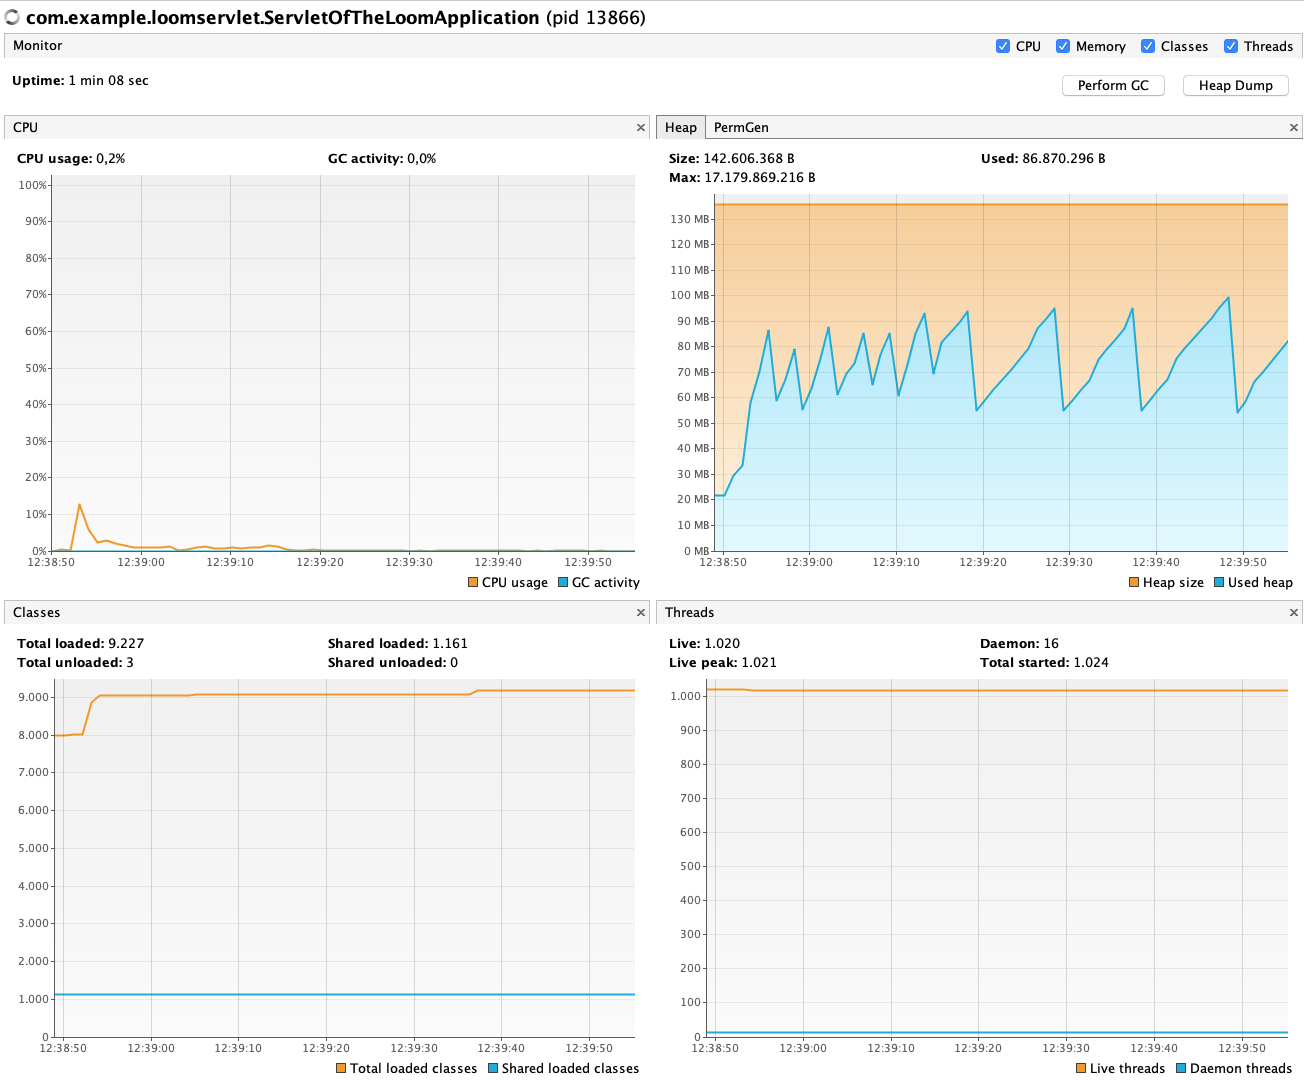
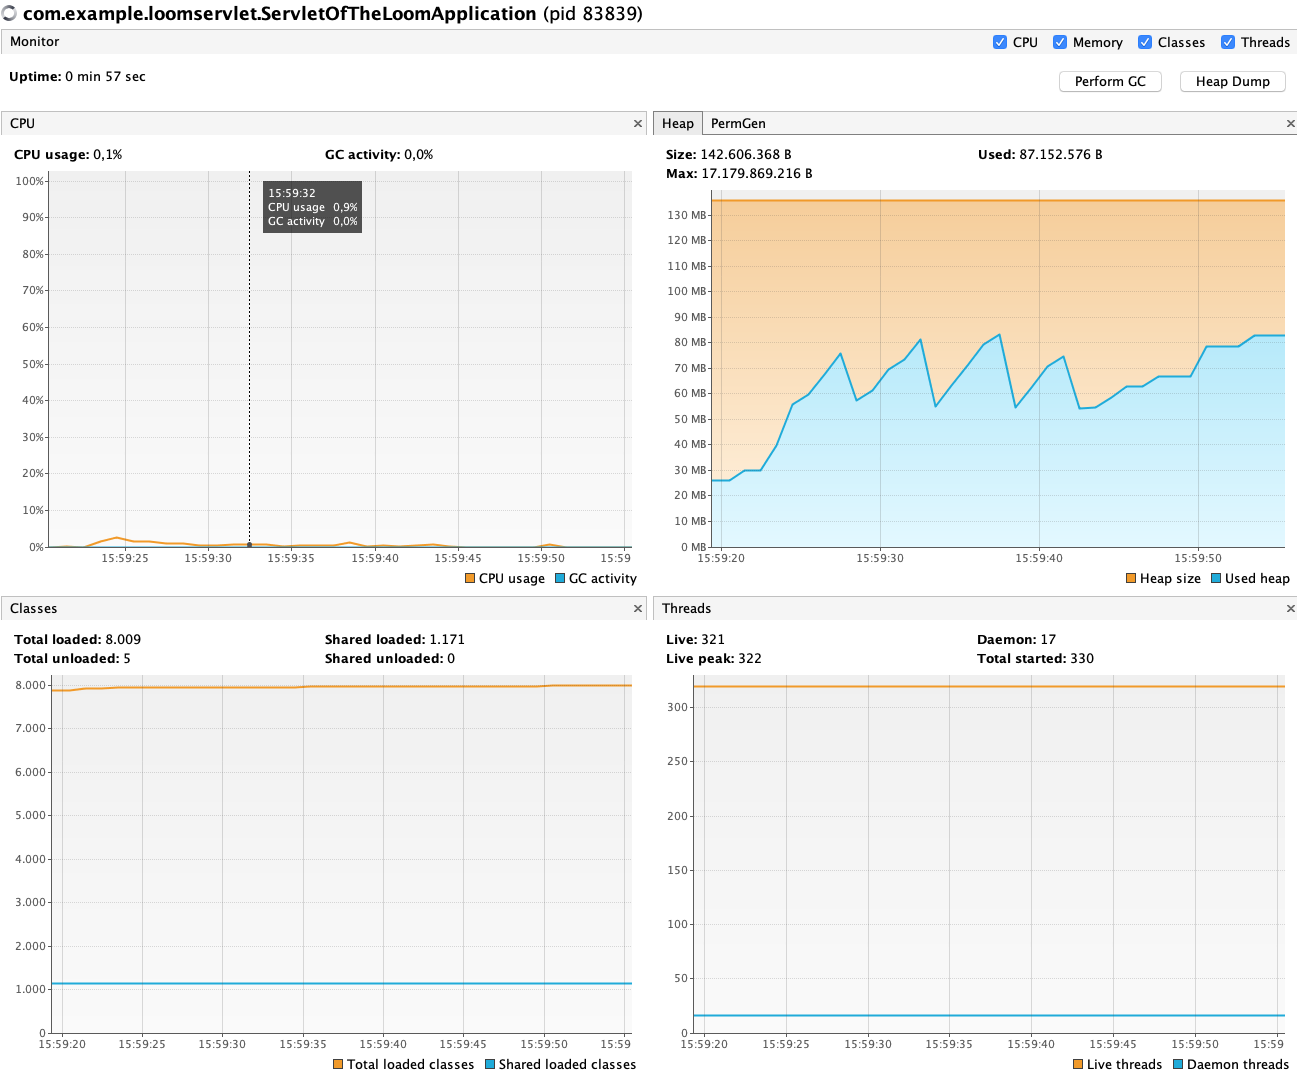
Reduce Kernel Thread scenario to achieve similar throughput as Virtual Threads using the least possible amount of threads.

diff --git a/README.md b/README.md
@@ -235,43 +235,43 @@ Transfer/sec:     24.59KB
 RSS: 234 MB
 
 
-**1000 Kernel Threads**
+**300 Kernel Threads**
 
 ```
-wrk -c 1000 -t 5 -d 10s --latency http://localhost:8080/
-Running 10s test @ http://localhost:8080/
+wrk -c 1000 -t 5 -d 10s --latency http://localhost:8080
+Running 10s test @ http://localhost:8080
   5 threads and 1000 connections
   Thread Stats   Avg      Stdev     Max   +/- Stdev
-    Latency     1.03s    65.68ms   1.25s    90.76%
-    Req/Sec    45.04     12.29    68.00     68.75%
+    Latency     1.01s     3.86ms   1.02s    72.97%
+    Req/Sec    45.10     27.70   135.00     76.42%
   Latency Distribution
-     50%    1.01s 
+     50%    1.00s 
      75%    1.01s 
-     90%    1.02s 
-     99%    1.24s 
-  2121 requests in 10.06s, 238.20KB read
-  Socket errors: connect 753, read 176, write 0, timeout 0
-Requests/sec:    210.76
-Transfer/sec:     23.67KB
+     90%    1.01s 
+     99%    1.02s 
+  2157 requests in 10.06s, 242.24KB read
+  Socket errors: connect 753, read 196, write 0, timeout 0
+Requests/sec:    214.51
+Transfer/sec:     24.09KB
 
-wrk -c 1000 -t 5 -d 10s --latency http://localhost:8080/
-Running 10s test @ http://localhost:8080/
+wrk -c 1000 -t 5 -d 10s --latency http://localhost:8080
+Running 10s test @ http://localhost:8080
   5 threads and 1000 connections
   Thread Stats   Avg      Stdev     Max   +/- Stdev
-    Latency     1.01s     2.66ms   1.02s    63.22%
-    Req/Sec    83.96    127.34   601.00     89.09%
+    Latency     1.00s     2.58ms   1.02s    66.67%
+    Req/Sec    46.95     56.47   394.00     97.89%
   Latency Distribution
-     50%    1.01s 
+     50%    1.00s 
      75%    1.01s 
      90%    1.01s 
      99%    1.01s 
-  2341 requests in 10.09s, 262.91KB read
-  Socket errors: connect 753, read 115, write 0, timeout 0
-Requests/sec:    232.02
-Transfer/sec:     26.06KB
+  2196 requests in 10.02s, 246.62KB read
+  Socket errors: connect 753, read 152, write 0, timeout 0
+Requests/sec:    219.15
+Transfer/sec:     24.61KB
 ```
 
-RSS: 356 MB
+RSS: 302 MB
 
 ![Kernel Threads Overview](img/Kernel%20Threads%20Overview.png "Kernel Threads Overview")
 
